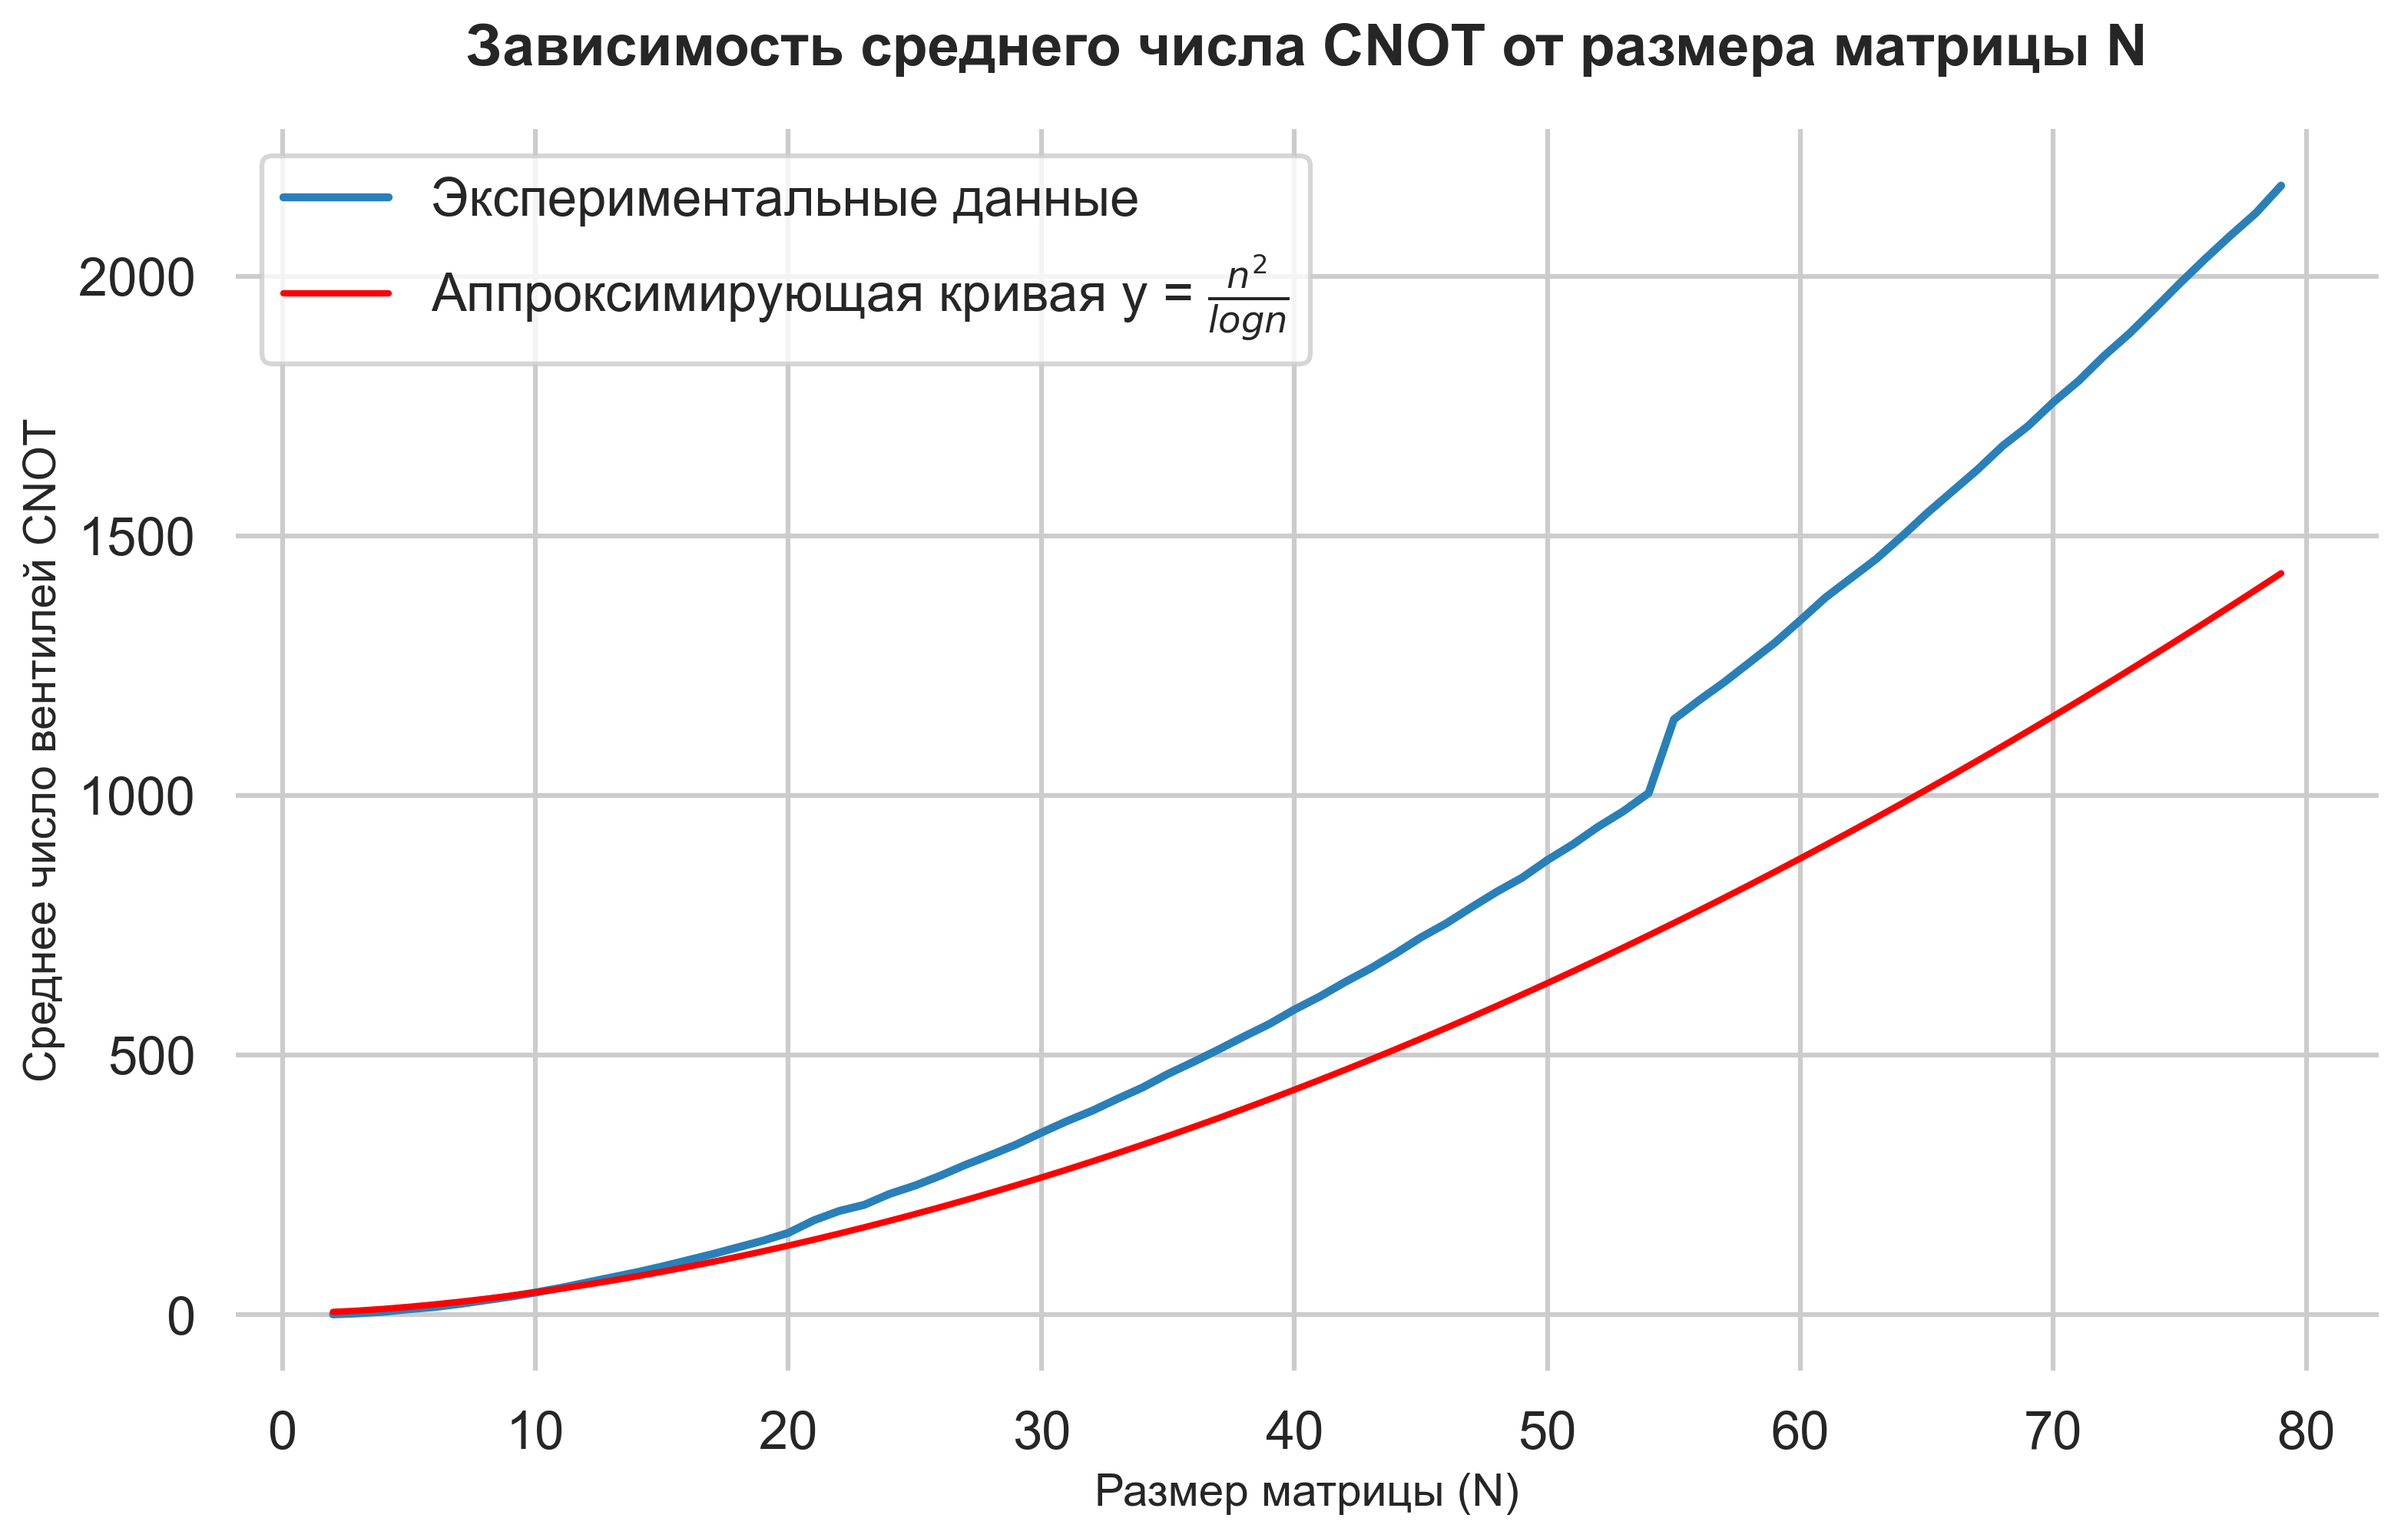
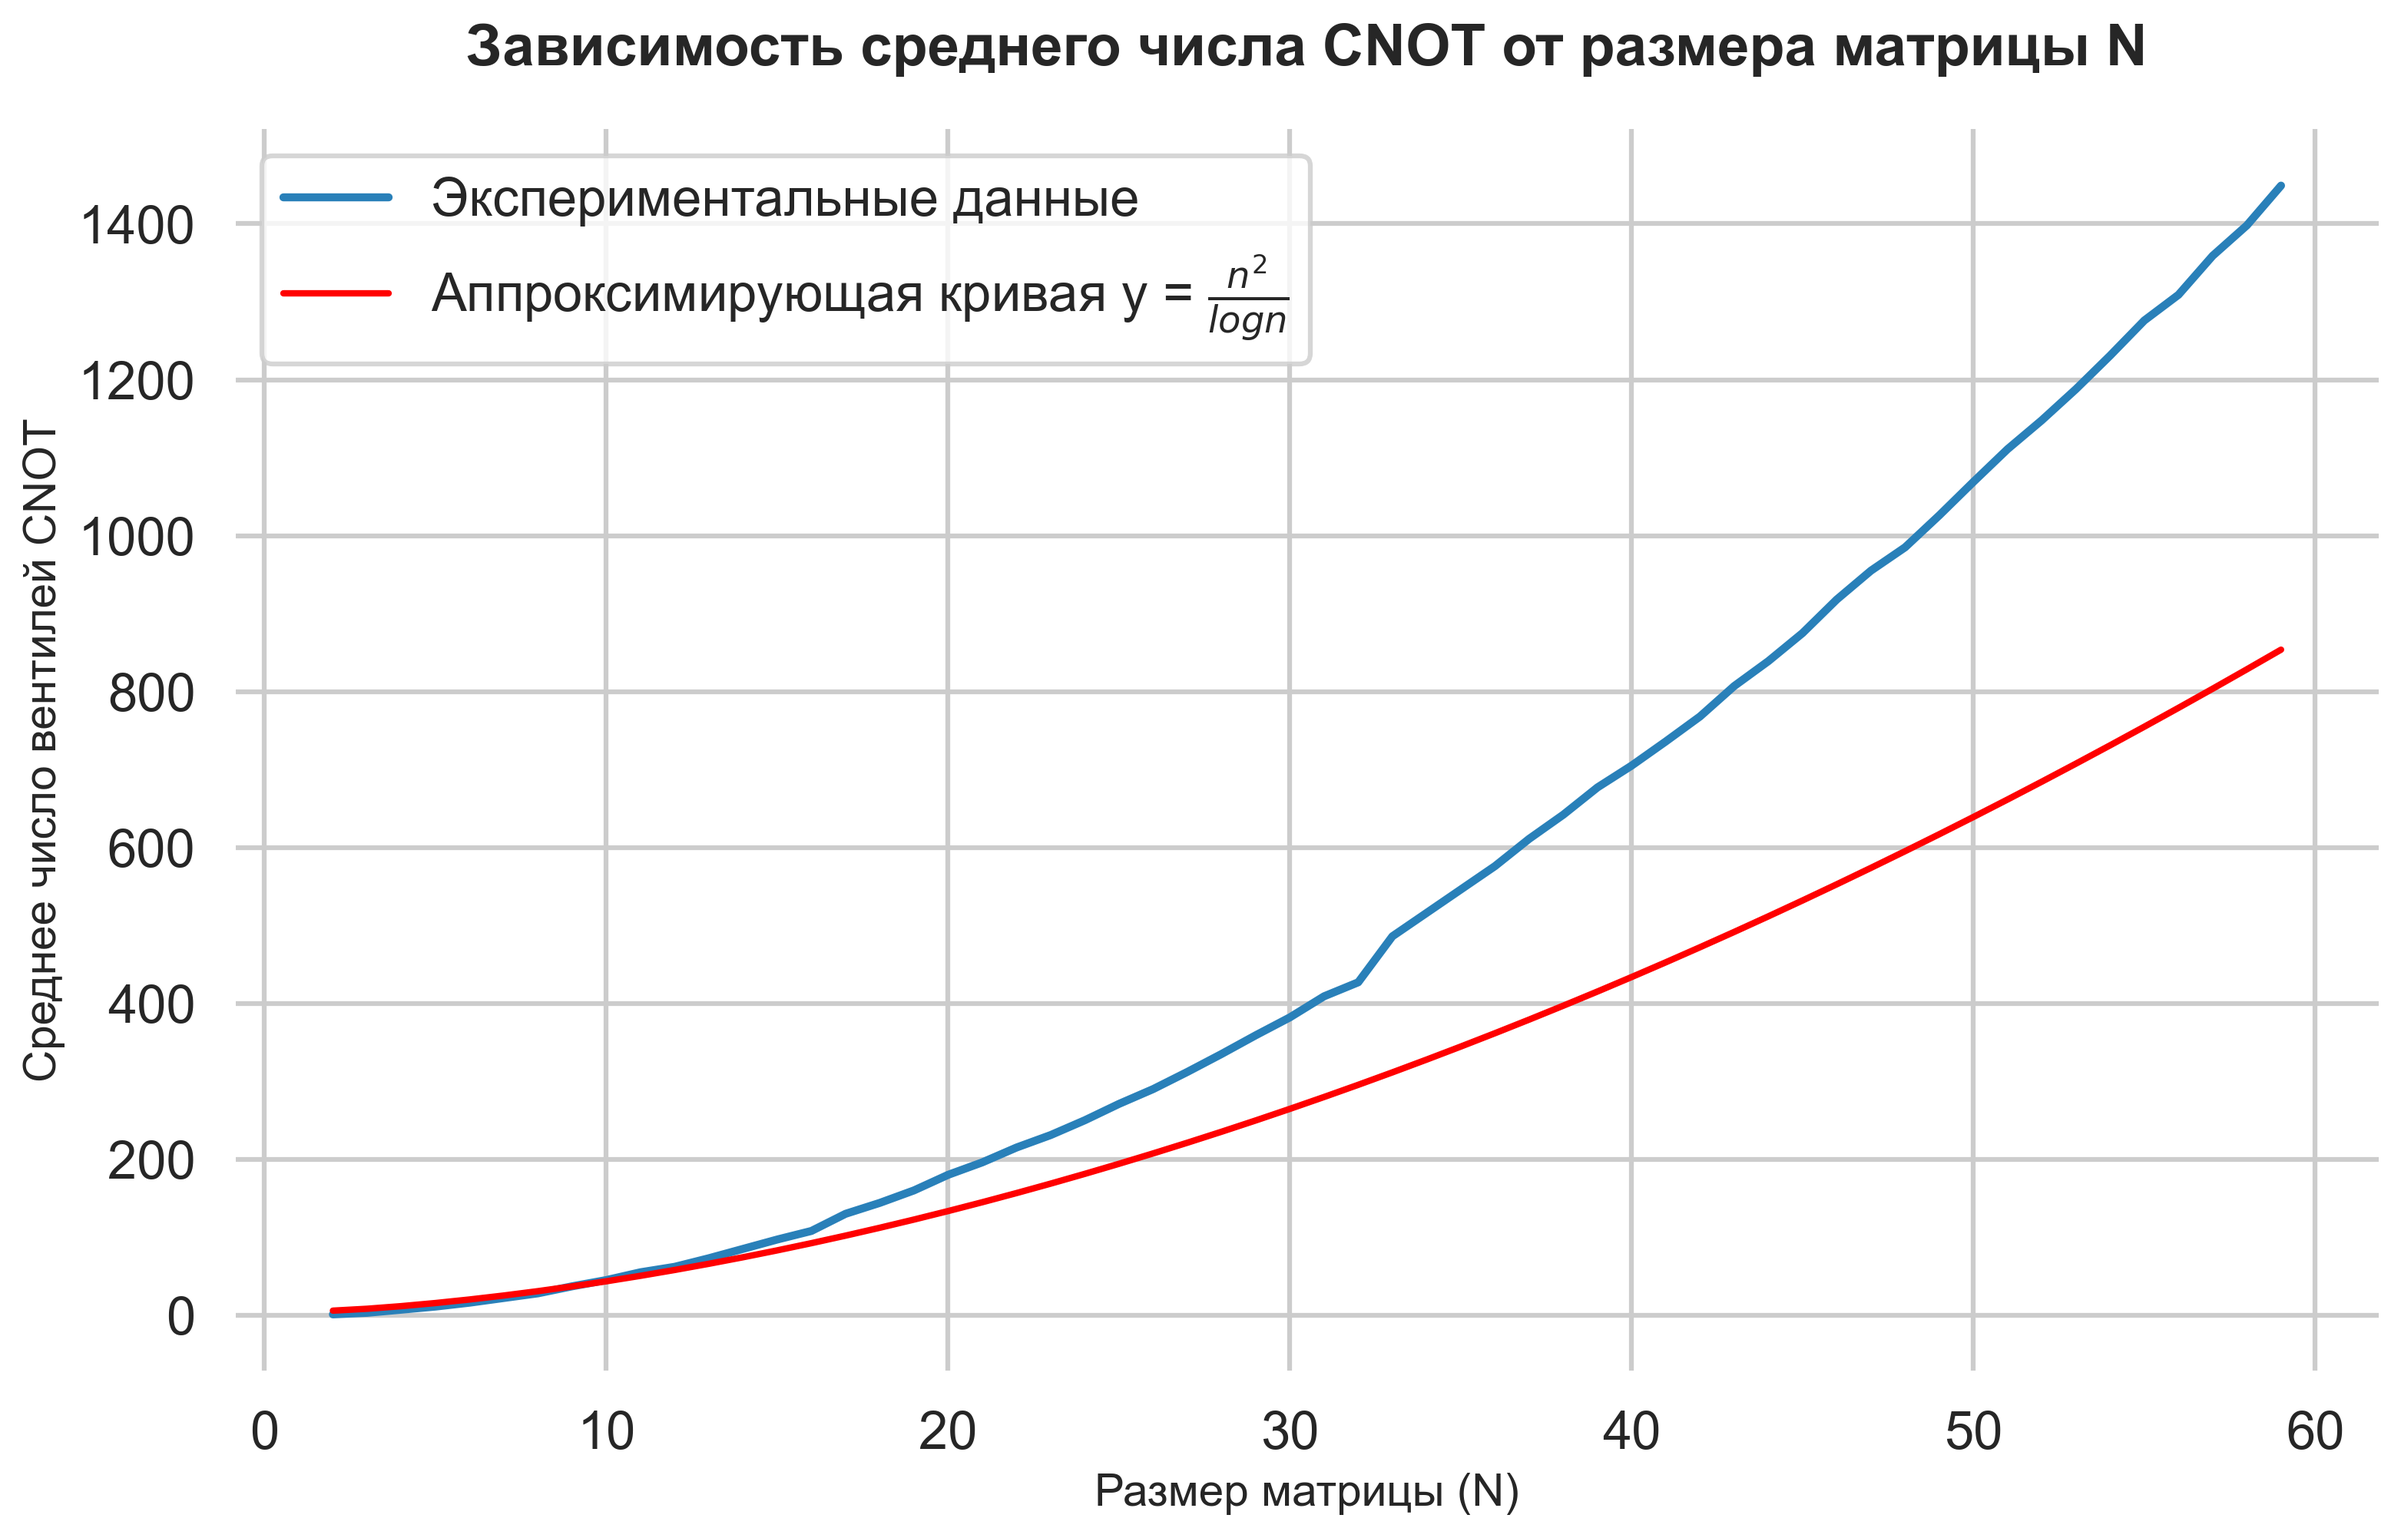
some corrections and more graphics were added

diff --git a/Min_Lin_Com/minim_model.py b/Min_Lin_Com/minim_model.py
@@ -2,13 +2,11 @@ import numpy as np
 import json
 import math
 from itertools import combinations
+from tqdm import tqdm
 
 
-def find_min_CNOT_count(input_file):
+def find_min_CNOT_count(matrix: np.ndarray):
 
-    with open(input_file, "r") as f:
-        matrix = np.array(json.load(f))
-    
     m, n = matrix.shape
     CNOTS = list()
 
@@ -38,17 +36,17 @@ def find_min_CNOT_count(input_file):
                     else:
                         idx_pairs = np.array(list(combinations(range(len(S)), d - 1)))
 
-                    for l in range(len(idx_pairs)):
-                        flag = False
-                        vector = new_elem
-                        for index in idx_pairs[l]:
-                            vector = (vector + S[index]) % 2
-                            if (np.array_equal(vector % 2, matrix[k])):
-                                reduced_indexes[k] = True
-                                flag = True
+                        for l in range(len(idx_pairs)):
+                            flag = False
+                            vector = new_elem
+                            for index in idx_pairs[l]:
+                                vector = (vector + S[index]) % 2
+                                if (np.array_equal(vector % 2, matrix[k])):
+                                    reduced_indexes[k] = True
+                                    flag = True
+                                    break
+                            if flag:
                                 break
-                        if flag:
-                            break
 
                 
                 if (np.count_nonzero(reduced_indexes) > np.count_nonzero(final_reduced_indexes)):

diff --git a/generating&graphics/generating_avg_CNOTS.py b/generating&graphics/generating_avg_CNOTS.py
@@ -1,5 +1,6 @@
 import sys
 import os
+from tqdm import tqdm
 
 current_dir = os.path.dirname(os.path.abspath(__file__))
 project_root = os.path.join(current_dir, '..')
@@ -16,11 +17,11 @@ def generate_avg_CNOTS(matrix_count, n_max, type='random', **kwargs):
     if type == 'random':
         folder = 'random_matrices'
 
-        for n in range(2, n_max):
+        for n in tqdm(range(2, n_max)):
             link = f'{folder}/matrix({n}x{n})_{matrix_count}.json'
 
             with open(link, 'r') as f:
-                all_matrices = np.array(json.load(f))  # implies all matrices at (n, k) by matrix_count
+                all_matrices = np.array(json.load(f))  # implies all matrices at n by matrix_count
 
             CNOTS = np.zeros(matrix_count, dtype=int)
 
@@ -40,7 +41,7 @@ def generate_avg_CNOTS(matrix_count, n_max, type='random', **kwargs):
 
         avg_CNOT_counts = np.zeros((k_max, n_max), dtype=int)
 
-        for n in range(2, n_max):
+        for n in tqdm(range(2, n_max)):
             for k in range(1, k_max):
                 link = f'{folder}/matrix({n}x{n})_{matrix_count}_{k}.json'
 
@@ -57,3 +58,6 @@ def generate_avg_CNOTS(matrix_count, n_max, type='random', **kwargs):
         
         with open(f'data_for_graphic2.json', 'w') as f:
             json.dump(avg_CNOT_counts.tolist(), f)
+
+if __name__ == '__main__':
+    generate_avg_CNOTS(n_max=120, matrix_count=30, type='random')

diff --git a/generating&graphics/graphic4.py b/generating&graphics/graphic4.py
@@ -1,0 +1,33 @@
+import matplotlib.pyplot as plt
+import numpy as np
+import seaborn as sns
+import json
+
+
+json_file1 = 'data_for_graphic1.json'
+json_file2 = '../Min_Lin_Com/data_for_graphic4.json'
+
+with open(json_file1, 'r') as f:
+    avg_cnots1 = np.array(json.load(f))
+
+with open(json_file2, 'r') as f:
+    avg_cnots2 = np.array(json.load(f))
+
+
+plt.Figure(figsize=(16, 9))
+
+n = np.arange(0, avg_cnots1.shape[0])
+
+sns.set_theme(style="whitegrid", context="talk")
+sns.despine(left=True, bottom=True)
+
+sns.lineplot(x=n[2:], y=avg_cnots1[2:], linewidth=2.5, color='blue', label='Квантовый метод')
+sns.lineplot(x=n[2:], y=avg_cnots2[2:], linewidth=2.5, color='red', label='Криптографический метод')
+
+plt.title('Сравнение квантового и криптографического метода')
+plt.xlabel('n')
+plt.ylabel('CNOT_count')
+
+output_file = 'methods_comparing.png'
+plt.savefig(output_file, dpi=300, bbox_inches='tight')
+plt.show()

diff --git a/Min_Lin_Com/generate_crypt_avg_cnots.py b/Min_Lin_Com/generate_crypt_avg_cnots.py
@@ -1,0 +1,32 @@
+from minim_model import *
+import typer
+
+app = typer.Typer()
+
+@app.command()
+def generate_avg_CNOTS(matrix_count : int = typer.Option(30, '--matrix-count', '-m'),
+                       n_max : int = typer.Option(50, '--n-max', '-n')):
+
+    avg_CNOT_counts = np.zeros(n_max, dtype=int)
+
+    folder = '../generating&graphics/random_matrices'
+
+    for n in tqdm(range(2, n_max)):
+        link = f'{folder}/matrix({n}x{n})_{matrix_count}.json'
+
+        with open(link, 'r') as f:
+            all_matrices = np.array(json.load(f))  # implies all matrices at n by matrix_count
+
+        CNOTS = np.zeros(matrix_count, dtype=int)
+
+        for i in range(matrix_count):
+            output = find_min_CNOT_count(all_matrices[i])
+            CNOTS[i] = len(output)
+
+        avg_CNOT_counts[n] = np.average(CNOTS)
+
+    with open(f'data_for_graphic4.json', 'w') as f:
+        json.dump(avg_CNOT_counts.tolist(), f)
+
+if __name__ == '__main__':
+    app()

diff --git a/generating&graphics/graphic5.py b/generating&graphics/graphic5.py
@@ -1,0 +1,32 @@
+import json
+import numpy as np
+import matplotlib.pyplot as plt
+import seaborn as sns
+from matplotlib.colors import ListedColormap
+
+json_file = 'data_for_graphic2.json'
+
+with open(json_file, 'r') as f:
+    avg_cnots = np.array(json.load(f))
+
+
+plt.figure(figsize=(12, 8))
+
+row_indices = np.arange(avg_cnots.shape[0])[:, np.newaxis]
+
+mask_for_special = avg_cnots <= row_indices
+mask_for_normal  = avg_cnots > row_indices
+
+
+sns.heatmap(avg_cnots, mask=mask_for_normal, cmap='viridis', annot=False, cbar=True)
+sns.heatmap(avg_cnots, mask=mask_for_special, cmap=ListedColormap(['#A52A2A']), annot=False, cbar=False)
+
+plt.title("AVG_CNOT_COUNT heatmap", fontsize=18)
+plt.xlabel("Размер матрицы N", fontsize=14)
+plt.ylabel("Количество шагов K", fontsize=14)
+
+sns.despine(left=True, bottom=True)
+plt.gca().invert_yaxis()
+
+output_file = "cnot_colored_heatmap.png"
+plt.savefig(output_file, dpi=300, bbox_inches='tight')

diff --git a/generating&graphics/graphic3.py b/generating&graphics/graphic3.py
@@ -1,0 +1,31 @@
+import matplotlib.pyplot as plt
+import numpy as np
+import seaborn as sns
+import json
+
+
+json_file = 'data_for_graphic1.json'
+
+with open(json_file, 'r') as f:
+    avg_cnots = np.array(json.load(f))
+
+print(avg_cnots.shape)
+
+plt.Figure(figsize=(16, 9))
+
+n = np.arange(0, avg_cnots.shape[0])
+
+y1 = n ** 2 / np.log(n)
+c = avg_cnots[2:] / y1[2:]
+
+sns.set_theme(style="whitegrid", context="talk")
+sns.despine(left=True, bottom=True)
+sns.lineplot(x=n[2:], y=c, linewidth=2.5, color='blue')
+
+plt.title(r'Коэффициент пропорциональности в O($\frac{n^2}{logn}$)')
+plt.xlabel('n')
+plt.ylabel('c')
+
+output_file = 'cnot_coef.png'
+plt.savefig(output_file, dpi=300, bbox_inches='tight')
+plt.show()

diff --git a/generating&graphics/generating_random_matrix.py b/generating&graphics/generating_random_matrix.py
@@ -1,6 +1,8 @@
 import numpy as np
 import json
 import galois
+from tqdm import tqdm
+
 
 GF = galois.GF(2)
 
@@ -20,5 +22,6 @@ def generate_data1(n, matrix_count):
     
     with open(f'random_matrices/matrix({n}x{n})_{matrix_count}.json', 'w') as f:
         json.dump(all_matrix.tolist(), f)
+
 
     

diff --git a/generating&graphics/create_and_solve.py b/generating&graphics/create_and_solve.py
@@ -15,7 +15,7 @@ def create1(
     Генерация случайных матриц
     """
 
-    for n in range(2, n_max):
+    for n in tqdm(range(2, n_max)):
         generate_data1(n=n, matrix_count=matrix_count)
     
     generate_avg_CNOTS(n_max=n_max, matrix_count=matrix_count, type='random')

diff --git a/Decomp/decomposition.py b/Decomp/decomposition.py
@@ -66,7 +66,7 @@ def CNOT_Synth(matrix, m=None):
     matrix = np.array(matrix)
 
     if (m is None):
-        m = math.ceil(np.log(matrix.shape[0]))
+        m = math.ceil(np.log2(matrix.shape[0]))
     
     steps1, U = Lwr_CNOT_Synth(matrix, matrix.shape[0], m)
     UT = np.transpose(U)
